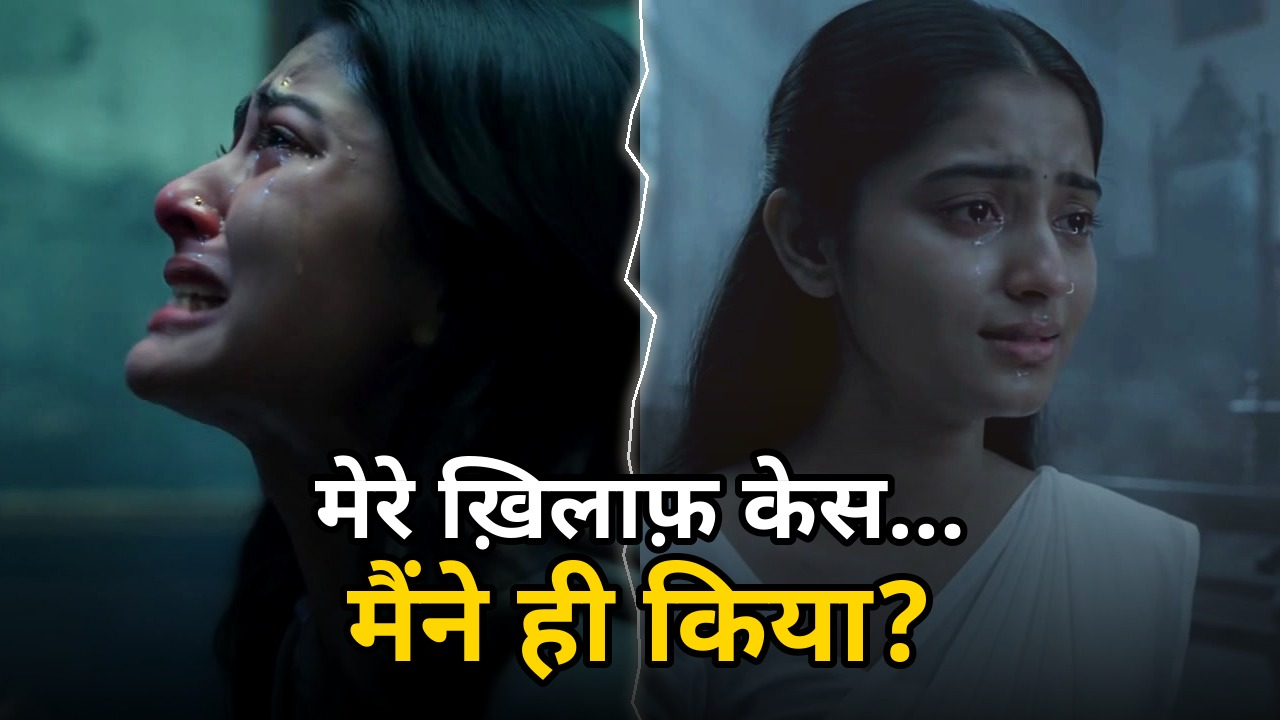
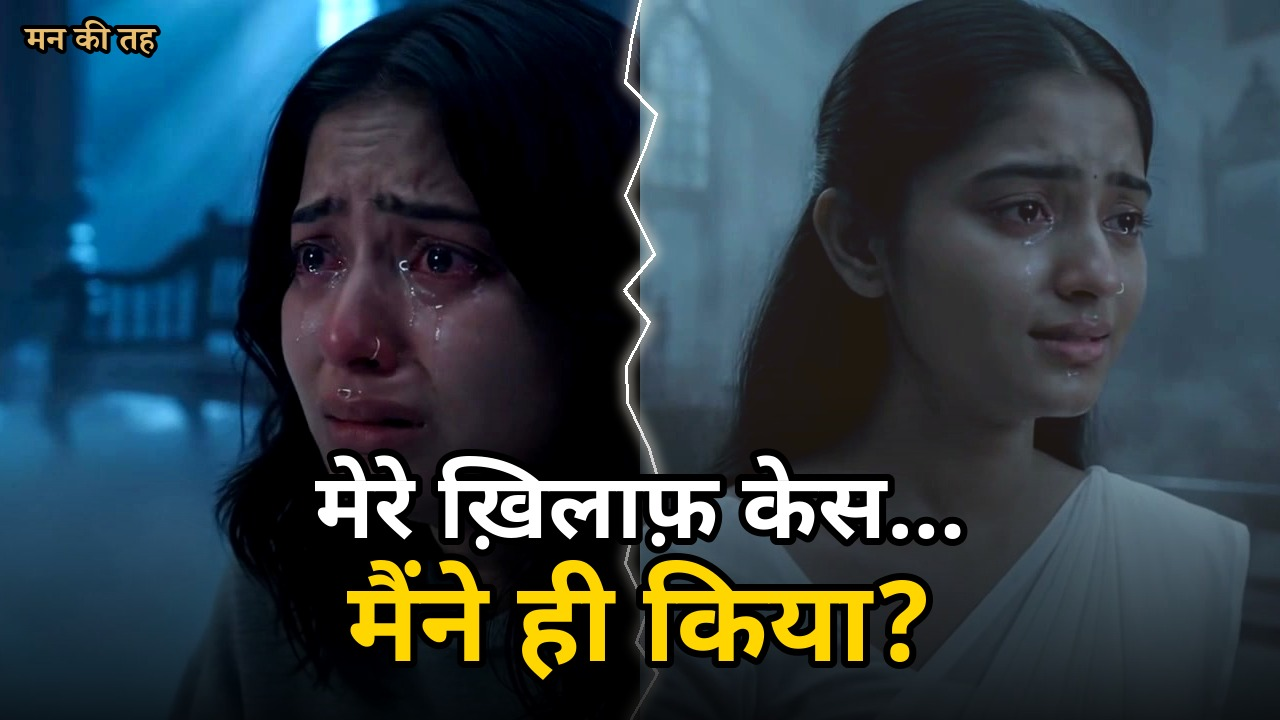
Final pack: V2 subtitles (hi/en), Shorts selection, new thumbnail, upload guide
Claude-Session: https://claude.ai/code/session_01YXLAQ7vAzVoNzqaJAeAJC7

diff --git a/film/edit/subtitles_v2.py b/film/edit/subtitles_v2.py
@@ -1,0 +1,126 @@
+#!/usr/bin/env python3
+"""Hindi + English .srt for the V2 cut (uploaded to YouTube as separate caption tracks).
+
+Usage: subtitles_v2.py <timeline_v2.json> <trims.json> <timing.json> <timing_extra.json> <intro_s> <out_prefix>
+Timing comes from measured speech in each source clip; the words come from the edit decision list.
+"""
+import json, sys
+from pathlib import Path
+sys.path.insert(0, str(Path(__file__).parent))
+from v2_edl import SHOTS
+
+TL = {c["label"]: c for c in json.load(open(sys.argv[1]))}
+TRIM = {int(k): v for k, v in json.load(open(sys.argv[2])).items()}
+TIM = {**{f"old:{k}": v for k, v in json.load(open(sys.argv[3])).items()},
+       **{f"up:{k}": v for k, v in json.load(open(sys.argv[4])).items()}}
+TIM["old:99"] = TIM.get("up:7596ce4e", [])  # VO 17 with its rebuilt last word
+INTRO, OUT = float(sys.argv[5]), sys.argv[6]
+
+EN = {
+ "घर से दूर, पुणे में अकेली रहती हूँ… और मुझे लगता था, मेरी ज़िंदगी में सबने मुझे सिर्फ़ दुख दिया है।":
+   "I live alone in Pune, far from home… and I used to feel that everyone in my life had only ever hurt me.",
+ "रिया… आज तो फ़ोन उठा ले बेटा…": "Riya… at least today, pick up the phone, beta…",
+ "नेहा… आरव… माँ। चौथा नाम… बाद में।": "Neha… Aarav… Maa. The fourth name… later.",
+ "उस रात मैं सोई… और मेरी आँख खुली, अपने ही मन की अदालत में।": "That night I fell asleep… and woke up in the court of my own mind.",
+ "मैं कहाँ हूँ… ये जगह कौन सी है?": "Where am I… what is this place?",
+ "रिया शर्मा… तुम्हारे ख़िलाफ़ केस तुमने ही किया है।": "Riya Sharma… the case against you was filed by you.",
+ "ये अदालत तुम्हारे मन की है। यहाँ शीशे झूठ नहीं बोलते।": "This court is your own mind. Here, the mirrors don't lie.",
+ "तुम… तुम मैं हो?": "You… you are me?",
+ "ये मेरा मन था… जहाँ मैं ही वकील थी, मैं ही जज… और मैं ही मुजरिम।": "This was my mind… where I was the lawyer, the judge… and the accused.",
+ "तीन गवाह आएँगे।": "Three witnesses will come.",
+ "मुझे किसी की ज़रूरत नहीं। मैं सही हूँ।": "I don't need anyone. I am right.",
+ "नेहा… मेरी पंद्रह साल पुरानी सहेली। उसकी सगाई हो गई… और उसने मुझे बताया तक नहीं।":
+   "Neha… my friend of fifteen years. She got engaged… and didn't even tell me.",
+ "…और मुझे बताया तक नहीं?": "…and she didn't even tell me?",
+ "पंद्रह साल की दोस्ती… और इसकी सगाई की ख़बर मुझे इंस्टाग्राम से मिली!": "Fifteen years of friendship… and I found out about her engagement on Instagram!",
+ "आरव… जिससे मैंने सबसे ज़्यादा प्यार किया। मुझे लगता था, उसने मेरा साथ छोड़ दिया।":
+   "Aarav… the one I loved the most. I thought he had abandoned me.",
+ "जिससे सबसे ज़्यादा प्यार किया… वही छोड़ गया।": "The one I loved the most… is the one who left.",
+ "तुमने मुझे सबके सामने छोटा किया!": "You humiliated me in front of everyone!",
+ "मैंने बस तुम्हें रोकना चाहा था।": "I only wanted to stop you.",
+ "माफ़ी?": "An apology?",
+ "गलती उसकी थी।": "It was his fault.",
+ "अब माँ की बारी है।": "Now it's Maa's turn.",
+ "खाना खाया, बेटा?": "Have you eaten, beta?",
+ "हर बार वही सवाल, माँ।": "The same question every time, Maa.",
+ "और माँ… जो हर रोज़ बस एक ही सवाल पूछती थी — खाना खाया? मुझे वो सवाल बोझ लगता था।":
+   "And Maa… who asked just one question every day — have you eaten? That question felt like a burden.",
+ "तू अकेली नहीं रह पाएगी।": "You won't be able to live alone.",
+ "आपको मेरी कोई परवाह नहीं है।": "You don't care about me at all.",
+ "आपने मुझे कभी समझा ही नहीं, सिर्फ़ खाना पूछा।": "You never understood me. You only asked if I'd eaten.",
+ "और फिर… शीशे ने मुझे वो दिखाया, जो उस दिन मैंने देखना ही नहीं चाहा।": "And then… the mirror showed me what I never wanted to see that day.",
+ "रिया, मुझे तुझे कुछ बताना है…": "Riya, I have something to tell you…",
+ "अच्छा छोड़, तू बता, तेरा दिन कैसा था?": "Never mind, you tell me — how was your day?",
+ "तू बात तो कर।": "At least talk to me.",
+ "अब…": "Now…",
+ "कोई फ़ायदा नहीं।": "…there's no point.",
+ "पर सच ये था… उसने बताने की बहुत कोशिश की थी। मैं ही अपने दुख में इतनी डूबी थी, कि उसकी ख़ुशी सुन ही नहीं पाई।":
+   "But the truth was… she tried so hard to tell me. I was so drowned in my own pain that I couldn't hear her joy.",
+ "रिया… प्लीज़, सब देख रहे हैं।": "Riya… please, everyone's watching.",
+ "आज मेरा दिन बहुत ख़राब था, रिया…": "I had a really bad day today, Riya…",
+ "तुम्हारा ख़राब था? पहले मेरा सुनो…": "Yours was bad? Listen to mine first…",
+ "तुम्हारी कहानी में मैं कभी सही हो ही नहीं सकता…": "In your story, I can never be right…",
+ "क्योंकि उसमें सिर्फ़ एक ही किरदार है।": "because it has only one character.",
+ "पर उसने मुझे नहीं छोड़ा था… मैंने ही उसे कभी अपनी कहानी में जगह नहीं दी।":
+   "But he never left me… I never gave him a place in my story.",
+ "मैं अकेली कैसे रहूँगी…": "How will I live alone…",
+ "ठीक है बेटा…": "Okay, beta…",
+ "मुझे कभी दिखा ही नहीं… कि मेरे जाने के बाद, वो घर कितना ख़ाली हो गया था।": "I never saw… how empty that house became after I left.",
+ "सच सुनने की हिम्मत है, रिया?": "Do you have the courage to hear the truth, Riya?",
+ "हाँ…": "Yes…",
+ "आज कौन सी तारीख़ है, रिया?": "What's the date today, Riya?",
+ "…माँ का जन्मदिन।": "…Maa's birthday.",
+ "कोई बात नहीं… बिज़ी होगी।": "It's alright… she must be busy.",
+ "मैं अपने आँसुओं में इतनी डूबी रही… कि माँ के आँसू मुझे कभी दिखे ही नहीं।": "I was so drowned in my own tears… that I never saw Maa's.",
+ "अहंकार हमेशा 'मैं' नहीं चिल्लाता… कभी-कभी वो आँसू पहनकर आता है।": "Ego doesn't always shout 'me'… sometimes it comes wearing tears.",
+ "सच ये है… तुम गलत नहीं थी, तुम थक गई थी।": "The truth is… you weren't wrong. You were tired.",
+ "चौथा नाम लिखो।": "Write the fourth name.",
+ "…रिया।": "…Riya.",
+ "माँ… मुझे माफ़ कर दो…": "Maa… please forgive me…",
+ "मैं समझ गई, रिया।": "I understand, Riya.",
+ "मैं तुम्हारे साथ हूँ।": "I'm with you.",
+ "फ़ैसला सुनाया जाता है…": "The verdict is…",
+ "ख़ुद को माफ़ कर दो।": "Forgive yourself.",
+ "हाँ बेटा?": "Yes, beta?",
+ "माँ… मैंने आपके सारे मैसेज पढ़ लिए। राजमा बचा है?": "Maa… I read all your messages. Is there any rajma left?",
+ "तेरे लिए तो रोज़ थोड़ा बचाकर रखती हूँ।": "I save a little for you every single day.",
+ "हैप्पी बर्थडे, माँ… सॉरी… मैं घर आ रही हूँ।": "Happy birthday, Maa… I'm sorry… I'm coming home.",
+ "माफ़ी माँगना हार नहीं थी… वो मेरी सबसे बड़ी जीत थी।": "Saying sorry wasn't losing… it was my biggest win.",
+ "खाना खाया?": "Have you eaten?",
+ "आपके साथ खा रही हूँ, माँ।": "I'm eating with you, Maa.",
+ "हम सबके मन में एक अदालत चलती है… जहाँ हम ख़ुद को हमेशा बेगुनाह मानते हैं। आज एक बार… अपने मन की तह तक जाकर देखिए।":
+   "In all our minds, a court is always in session… where we always find ourselves innocent. Today, just once… look deep into your own mind.",
+}
+
+def ts(x):
+    ms = int(round(x * 1000)); h, ms = divmod(ms, 3600000); m, ms = divmod(ms, 60000); s, ms = divmod(ms, 1000)
+    return f"{h:02d}:{m:02d}:{s:02d},{ms:03d}"
+
+cues = [(0.6, 6.2, "रिया शर्मा… तुम्हारे ख़िलाफ़ केस तुमने ही किया है।")]  # cold open over black
+for shot in SHOTS:
+    label, src, tin, tout, look, subs = shot[:6]
+    if not subs or label not in TL: continue
+    c = TL[label]; o = shot[7] if len(shot) > 7 else {}
+    if tin is None and tout is None and src.startswith("old:") and int(src[4:]) in TRIM:
+        tin, tout = TRIM[int(src[4:])]
+    tin = tin or 0.0; d = c["dur"]; tout = tin + d
+    segs = [(s, e) for s, e, *_ in TIM.get(src, []) if e > tin and s < tout]
+    a = max(segs[0][0], tin) - tin if segs else 0.4
+    b = min(segs[-1][1], tout) - tin if segs else d - 0.4
+    if len(segs) == len(subs): spans = [(max(s, tin) - tin, min(e, tout) - tin) for s, e in segs]
+    else:
+        tot = sum(len(x) for x in subs); spans, t = [], a
+        for x in subs: L = (b - a) * len(x) / tot; spans.append((t, t + L)); t += L
+    base = c["start"] + INTRO
+    for (s0, e0), text in zip(spans, subs):
+        cues.append((base + s0, base + min(d, max(e0, s0 + 1.2) + 0.3), text))
+cues.sort()
+for k in range(len(cues) - 1):
+    s, e, t = cues[k]; cues[k] = (s, min(e, cues[k + 1][0] - 0.05), t)
+missing = [t for _, _, t in cues if t not in EN]
+assert not missing, f"no English for: {missing}"
+for lang in ("hi", "en"):
+    with open(f"{OUT}.{lang}.srt", "w", encoding="utf-8") as fh:
+        for n, (s, e, t) in enumerate(cues, 1):
+            fh.write(f"{n}\n{ts(s)} --> {ts(e)}\n{t if lang == 'hi' else EN[t]}\n\n")
+print("cues:", len(cues))

diff --git a/film/edit/shorts_v2.py b/film/edit/shorts_v2.py
@@ -1,0 +1,113 @@
+#!/usr/bin/env python3
+"""Vertical Shorts / Reels (1080x1920) cut from the finished film.
+
+Usage: shorts_v2.py <final.mp4> <timeline_v2.json> <intro_s> <subs.hi.srt> <out_dir>
+
+Layout: a hook line in the top band, the picture reframed to 3:4 in the middle (crop follows the
+faces found in each shot; wide two-person shots are shown whole over a blurred copy), burned-in
+Hindi captions in the bottom band (most Reels are watched muted), and a closing call to the full film.
+"""
+import json, re, subprocess, sys, tempfile
+from pathlib import Path
+import cv2, numpy as np
+from PIL import Image, ImageDraw, ImageFont
+
+FILM, TL, INTRO, SRT, OUT = sys.argv[1], json.load(open(sys.argv[2])), float(sys.argv[3]), sys.argv[4], Path(sys.argv[5])
+OUT.mkdir(parents=True, exist_ok=True)
+T = {c["label"]: (c["start"] + INTRO, c["start"] + INTRO + c["dur"]) for c in TL}
+BOLD = "/usr/share/fonts/truetype/noto/NotoSansDevanagari-Bold.ttf"
+CHANNEL = "MAN KI TEH"
+
+SHORTS = [  # picked for a hook in the first second, one complete emotional turn, and a payoff
+    ("short1_birthday", ["34", "35", "35s", "40"], "जिस दिन माँ का जन्मदिन था…\nमैंने फ़ोन तक नहीं उठाया"),
+    ("short2_khana", ["24", "28", "29v", "56"], "माँ बस इतना ही पूछती थी…\n“खाना खाया?”"),
+    ("short3_kirdar", ["t2", "19", "19s"], "तुम्हारी कहानी में…\nसिर्फ़ एक ही किरदार है"),
+    ("short4_adalat", ["6", "7", "9", "9v"], "मेरे ख़िलाफ़ केस…\nमैंने ही किया?"),
+]
+
+def srt_cues(path):
+    txt = Path(path).read_text(encoding="utf-8").strip().split("\n\n"); cues = []
+    def sec(s):
+        h, m, r = s.split(":"); s, ms = r.split(","); return int(h) * 3600 + int(m) * 60 + int(s) + int(ms) / 1000
+    for block in txt:
+        lines = block.split("\n")
+        a, b = lines[1].split(" --> "); cues.append((sec(a), sec(b), " ".join(lines[2:])))
+    return cues
+
+def text_png(path, text, size, color, box_h, wrap=22):
+    img = Image.new("RGBA", (1080, box_h), (0, 0, 0, 0)); d = ImageDraw.Draw(img)
+    f = ImageFont.truetype(BOLD, size, layout_engine=ImageFont.Layout.RAQM)
+    lines = []
+    for para in text.split("\n"):  # simple word wrap
+        words, cur = para.split(), ""
+        for w in words:
+            t = (cur + " " + w).strip()
+            if d.textlength(t, font=f) > 980 and cur: lines.append(cur); cur = w
+            else: cur = t
+        lines.append(cur)
+    lh = int(size * 1.45); y = (box_h - lh * len(lines)) // 2
+    for ln in lines:
+        w = d.textlength(ln, font=f)
+        d.text(((1080 - w) / 2, y), ln, font=f, fill=color, stroke_width=max(4, size // 12), stroke_fill=(0, 0, 0))
+        y += lh
+    img.save(path)
+
+def face_center(a, b):
+    """Median x of faces (0..1) in the film between a and b, and how spread they are."""
+    cap = cv2.VideoCapture(FILM); fr = cv2.CascadeClassifier(cv2.data.haarcascades + "haarcascade_frontalface_default.xml")
+    pr = cv2.CascadeClassifier(cv2.data.haarcascades + "haarcascade_profileface.xml"); xs = []
+    for t in np.linspace(a + 0.5, b - 0.5, 8):
+        cap.set(cv2.CAP_PROP_POS_MSEC, t * 1000); ok, img = cap.read()
+        if not ok: continue
+        g = cv2.cvtColor(cv2.resize(img, (960, 540)), cv2.COLOR_BGR2GRAY); g = cv2.equalizeHist(g)
+        found = list(fr.detectMultiScale(g, 1.1, 5, minSize=(50, 50))) + list(pr.detectMultiScale(g, 1.1, 5, minSize=(50, 50)))
+        found += [(960 - x - w, y, w, h) for x, y, w, h in pr.detectMultiScale(cv2.flip(g, 1), 1.1, 5, minSize=(50, 50))]
+        xs += [(x + w / 2) / 960 for x, y, w, h in found]
+    cap.release()
+    if not xs: return 0.5, 0.0
+    xs = np.array(xs); return float(np.median(xs)), float(np.percentile(xs, 90) - np.percentile(xs, 10))
+
+cues = srt_cues(SRT)
+for name, clips, hook in SHORTS:
+    tmp = Path(tempfile.mkdtemp())
+    parts = []
+    for c in clips:
+        a, b = T[c]; cx, spread = face_center(a, b)
+        if spread > 0.45:   # two people far apart: show the whole frame over a blurred copy
+            vf = ("split[x][y];[y]scale=-2:1440,crop=1080:1440,gblur=sigma=30,eq=brightness=-0.15[bg];"
+                  "[x]scale=1080:-2[fg];[bg][fg]overlay=0:(H-h)/2")
+        else:               # 3:4 crop that follows the face
+            sw = 2560; left = int(min(max(cx * sw - 540, 0), sw - 1080))
+            vf = f"scale={sw}:1440:flags=lanczos,crop=1080:1440:{left}:0"
+        vf += ",pad=1080:1920:0:240:black,setsar=1,fps=24,format=yuv420p"
+        p = tmp / f"p{c}.mp4"
+        subprocess.run(["ffmpeg", "-y", "-v", "error", "-ss", f"{a:.3f}", "-t", f"{b - a:.3f}", "-i", FILM,
+                        "-vf", vf, "-threads", "2", "-c:v", "libx264", "-crf", "16", "-preset", "veryfast",
+                        "-c:a", "pcm_s16le", str(p)], check=True)
+        parts.append(p); print(name, c, f"face x={cx:.2f} spread={spread:.2f}", flush=True)
+    (tmp / "list.txt").write_text("".join(f"file '{p}'\n" for p in parts))
+    subprocess.run(["ffmpeg", "-y", "-v", "error", "-f", "concat", "-safe", "0", "-i", str(tmp / "list.txt"),
+                    "-c", "copy", str(tmp / "body.mkv")], check=True)
+    # overlays: hook (top, whole short except the last 3 s), captions (bottom), call to the full film
+    s0 = T[clips[0]][0]; total = sum(T[c][1] - T[c][0] for c in clips)
+    offs, acc = {}, 0.0
+    for c in clips: offs[c] = acc; acc += T[c][1] - T[c][0]
+    text_png(tmp / "hook.png", hook, 64, (255, 255, 255), 240)
+    text_png(tmp / "cta.png", "पूरी फ़िल्म देखें —\n" + CHANNEL + " चैनल पर", 56, (255, 214, 0), 240)
+    inputs, ov, k = ["-i", str(tmp / "body.mkv"), "-i", str(tmp / "hook.png"), "-i", str(tmp / "cta.png")], [], 3
+    chain = f"[0:v][1:v]overlay=0:0:enable='lt(t,{total - 3:.2f})'[v1];[v1][2:v]overlay=0:0:enable='gte(t,{total - 3:.2f})'[v2]"
+    last = "v2"
+    for c in clips:
+        a, b = T[c]
+        for (cs, ce, txt) in cues:
+            if ce <= a or cs >= b: continue
+            st, en = offs[c] + max(cs, a) - a, offs[c] + min(ce, b) - a
+            png = tmp / f"cap{k}.png"; text_png(png, txt, 60, (255, 255, 255), 240)
+            inputs += ["-i", str(png)]
+            chain += f";[{last}][{k}:v]overlay=0:1680:enable='between(t,{st:.2f},{en:.2f})'[v{k}]"; last = f"v{k}"; k += 1
+    out = OUT / f"{name}.mp4"
+    subprocess.run(["ffmpeg", "-y", "-v", "error", *inputs, "-filter_complex", chain + f";[{last}]format=yuv420p[vo]",
+                    "-map", "[vo]", "-map", "0:a", "-af", f"afade=t=in:d=0.3,afade=t=out:st={total - 1.0:.2f}:d=1.0",
+                    "-c:v", "libx264", "-crf", "20", "-preset", "medium", "-c:a", "aac", "-b:a", "192k",
+                    "-movflags", "+faststart", str(out)], check=True)
+    print("wrote", out, round(total, 1), "s", flush=True)

diff --git a/film/YOUTUBE_UPLOAD.md b/film/YOUTUBE_UPLOAD.md
@@ -1,60 +1,73 @@
-# YouTube अपलोड पैकेज: अंदर की अदालत
+# YouTube अपलोड पैकेज: अंदर की अदालत (फ़ाइनल)
 
-## टाइटल (कोई एक चुनें)
+## फ़ाइलें
+| फ़ाइल | क्या है |
+|---|---|
+| `andar_ki_adalat_FINAL.mp4` | पूरी फ़िल्म: 1080p, -14 LUFS, लगभग 9 मिनट (इंट्रो और 20 सेकंड का एंड-स्क्रीन शामिल) |
+| `andar_ki_adalat.hi.srt` | हिंदी subtitles (YouTube पर अलग से अपलोड करने हैं) |
+| `andar_ki_adalat.en.srt` | English subtitles |
+| `thumbnail.jpg` | Thumbnail (1280×720) |
+| `short1_birthday.mp4` … `short4_adalat.mp4` | 4 Shorts/Reels (9:16) |
 
-1. **अंदर की अदालत | जब मेरे ख़िलाफ़ केस मैंने ही किया 💔 | Emotional Hindi Short Film**
-2. **मेरे ख़िलाफ़ केस… मैंने ही किया? | अंदर की अदालत | Hindi Short Film**
-3. **हर बार मेरे साथ ही क्यों होता है? | अंदर की अदालत | Maa Emotional Short Film**
-
-> टाइटल 70 अक्षरों से छोटा रखें, ताकि मोबाइल पर पूरा दिखे। पहला टाइटल सबसे ज़्यादा उत्सुकता जगाता है।
-
-## डिस्क्रिप्शन (कॉपी-पेस्ट करें)
-
+## टाइटल
 ```
-क्या आपने कभी सोचा है… जिसे आप दुनिया की गलती समझते रहे, वो फ़ैसला आपके अंदर की अदालत में किसका होगा?
+Mere Khilaf Case... Maine Hi Kiya? 💔 | Andar Ki Adalat | Emotional Hindi Short Film
+```
 
-रिया को लगता था कि सबने उसे छोड़ दिया — दोस्त ने, प्यार ने, और माँ ने भी।
-एक रात, सपने में, वो एक अजीब अदालत में जागती है… जहाँ केस उसके ख़िलाफ़ है, और केस करने वाली भी वो ख़ुद है।
+## डिस्क्रिप्शन
+```
+Ghar se door, Pune mein akeli... Riya ko lagta tha sabne use sirf dukh diya — dost ne, pyaar ne, aur Maa ne bhi.
+Ek raat wo jaagti hai apne hi man ki adalat mein... jahan case uske khilaf hai, aur case karne wali bhi wo khud hai.
+Aur phir shishe ne use wo dikhaya, jo usne kabhi dekhna hi nahi chaha. 💔
 
-ये कहानी है अहंकार, आँसुओं, माफ़ी और माँ के प्यार की।
-अगर इस फ़िल्म ने आपको किसी की याद दिलाई — तो आज उन्हें एक फ़ोन ज़रूर कर लीजिए। ❤
+Ye kahani hai ego, aansu, maafi aur Maa ke pyaar ki.
+Agar is film ne kisi ki yaad dilayi — aaj unhe ek call zaroor kar lena. ❤
 
-👉 कमेंट में बताइए: आपको किससे माफ़ी माँगनी है… या किसे माफ़ करना है?
+👇 Comment karo: Aapke man ki adalat mein aaj kiska case chal raha hai?
 
-#अंदरकीअदालत #HindiShortFilm #EmotionalShortFilm #MaaKaPyaar #ShortFilm #Maafi #SelfLove #AIFilm
+🔔 Subscribe: Man Ki Teh (मन की तह)
+
+#AndarKiAdalat #HindiShortFilm #ManKiTeh
 ```
 
 ## टैग्स
-
 ```
-hindi short film, emotional short film, maa short film, andar ki adalat, inner court, self forgiveness, maafi, maa beti, emotional story hindi, short film 2026, heart touching short film, ai short film, motivational short film hindi, mother daughter story, ego and forgiveness
+hindi short film, emotional short film, maa short film, andar ki adalat, man ki teh, mann ki adalat, self forgiveness, ego and forgiveness, maa beti story, heart touching short film, ai short film, mother daughter emotional, birthday emotional story
 ```
 
-## अपलोड करते समय ये ज़रूर करें
-
+## अपलोड करते समय
 1. **Thumbnail:** `thumbnail.jpg` लगाएँ।
-2. **Subtitles:** YouTube Studio में जाएँ, फिर **Subtitles → Add language → Upload file → With timing** चुनें।
-   - Hindi के लिए: `riya_andar_ki_adalat.hi.srt`
-   - English के लिए: `riya_andar_ki_adalat.en.srt`
-
-   English subtitles से फ़िल्म देश के बाहर के लोगों तक भी पहुँचेगी।
-3. **End screen:** फ़िल्म के आख़िरी 20 सेकंड इसी के लिए खाली रखे गए हैं। **Editor → End screen** में ये दो चीज़ें जोड़ें:
-   - एक **Subscribe** बटन, बीच में नीचे की तरफ़
+2. **Subtitles:** Studio में **Subtitles → Add language → Upload file → With timing** चुनकर Hindi (`.hi.srt`) और English (`.en.srt`) दोनों डालें। फ़िल्म में कोई subtitle छपा नहीं है।
+3. **End screen:** आख़िरी 20 सेकंड इसी के लिए हैं। **Editor → End screen** में ये दो चीज़ें जोड़ें:
+   - **Subscribe** बटन, बीच में नीचे की तरफ़
    - एक **Best for viewer** वीडियो, दाएँ तरफ़
 
-   ऊपर वाली लाइन ("माफ़ी माँगना हार नहीं है…") को खाली छोड़ दें, उसके ऊपर कुछ न लगाएँ।
-4. **Category:** Film & Animation
-5. **Audience:** "No, it's not made for kids"
-6. **Altered or synthetic content:** YouTube पूछता है कि वीडियो में AI से बना असली-जैसा कंटेंट है या नहीं। इस फ़िल्म के किरदार AI से बने हैं, इसलिए यहाँ **"Yes"** चुनें। ये YouTube का नियम है, और इससे वीडियो की पहुँच नहीं घटती।
-7. **पोस्ट करने का समय:** भारत में शाम 7 से 9 बजे के बीच पोस्ट करें, इस समय सबसे ज़्यादा लोग देखते हैं।
-8. **पहला कमेंट:** अपलोड होते ही ये सवाल ख़ुद कमेंट करके pin कर दें: "आपको किससे माफ़ी माँगनी है? 👇"
+   ऊपर वाली लाइन ("आपके मन की अदालत में… आज किसका केस चल रहा है?") को खाली छोड़ें, उसके ऊपर कुछ न लगाएँ।
+4. **Altered or synthetic content:** "Yes" चुनें, क्योंकि किरदार AI से बने हैं। ये YouTube का नियम है।
+5. **Category:** Film & Animation। **Audience:** "Not made for kids"।
+6. **पोस्ट करने का समय:** शाम 7 से 9 बजे के बीच। अपलोड होते ही ये कमेंट ख़ुद करके pin कर दें: *"आपके मन की अदालत में आज किसका केस चल रहा है? 👇"*
 
-## फ़िल्म में दर्शक को रोके रखने के लिए क्या किया गया है
+## Shorts / Reels (ये 4 चुने हैं)
+| फ़ाइल | हुक | कैप्शन |
+|---|---|---|
+| short1_birthday | जिस दिन माँ का जन्मदिन था… मैंने फ़ोन तक नहीं उठाया | Maa ka birthday tha… aur maine call tak nahi uthaya 💔 |
+| short2_khana | माँ बस इतना ही पूछती थी… "खाना खाया?" | Maa bas itna hi poochti thi… "Khana khaya?" 🥺❤ |
+| short3_kirdar | तुम्हारी कहानी में… सिर्फ़ एक ही किरदार है | Tumhari kahani mein sirf ek hi kirdar hai… 💔 |
+| short4_adalat | मेरे ख़िलाफ़ केस… मैंने ही किया? | Mere khilaf case… maine hi kiya? 😳 |
 
-- **0-7 सेकंड (हुक):** स्क्रीन काली रहती है और जज की गूँजती आवाज़ आती है: "रिया शर्मा… तुम्हारे ख़िलाफ़ केस तुमने ही किया है।" इससे पहले सेकंड से ही सवाल खड़ा हो जाता है।
-- **टाइटल:** सिर्फ़ 4.5 सेकंड का है, ताकि कहानी जल्दी शुरू हो।
-- **रफ़्तार:** हर क्लिप से खाली सेकंड काट दिए गए हैं, पर डायलॉग के बाद किरदार का रिएक्शन (आँसू, चुप्पी) बचाकर रखा है।
-- **दो दुनिया:** कोर्टरूम सिनेमा जैसे चौड़े फ़्रेम (ऊपर-नीचे काली पट्टियों) में है, असली ज़िंदगी पूरी स्क्रीन पर। बार-बार दुनिया बदलने से दर्शक का ध्यान बना रहता है।
-- **म्यूज़िक:** एक ही धुन पूरी फ़िल्म में बदलती रहती है। शुरुआत में उदास पियानो पर है, माँ के सीन में बाँसुरी पर, बचपन वाले सीन में म्यूज़िक-बॉक्स पर, और अंत में खुशी वाली धुन पर।
-- **चीख़ के बाद सन्नाटा (क्लिप 29 से 30):** म्यूज़िक अचानक रुक जाता है। ये पल फ़िल्म का सबसे भारी पल बन जाता है।
-- **फ़्रेम खुलना:** जब रिया जागती है, तो कोर्टरूम वाली काली पट्टियाँ हट जाती हैं और फ़्रेम खुल जाता है। ये उसकी आज़ादी को दिखाता है।
+हर कैप्शन के नीचे ये लाइन डालें: `Poori film channel par 👉 Man Ki Teh`
+
+**हैशटैग, Instagram:**
+```
+#maa #maakapyaar #emotionalreels #hindishortfilm #sadreels #reelsindia #trendingreels #viralreels #explorepage #mankiteh #andarkiadalat
+```
+
+**हैशटैग, YouTube Shorts:**
+```
+#shorts #maa #emotional #hindishortfilm #mankiteh
+```
+
+**पोस्ट करने का क्रम:**
+- **पहले दिन:** पूरी फ़िल्म
+- **अगले दिन:** short1_birthday, ये सबसे दमदार है
+- **फिर:** short2_khana, short3_kirdar, short4_adalat, एक-एक दिन छोड़कर
